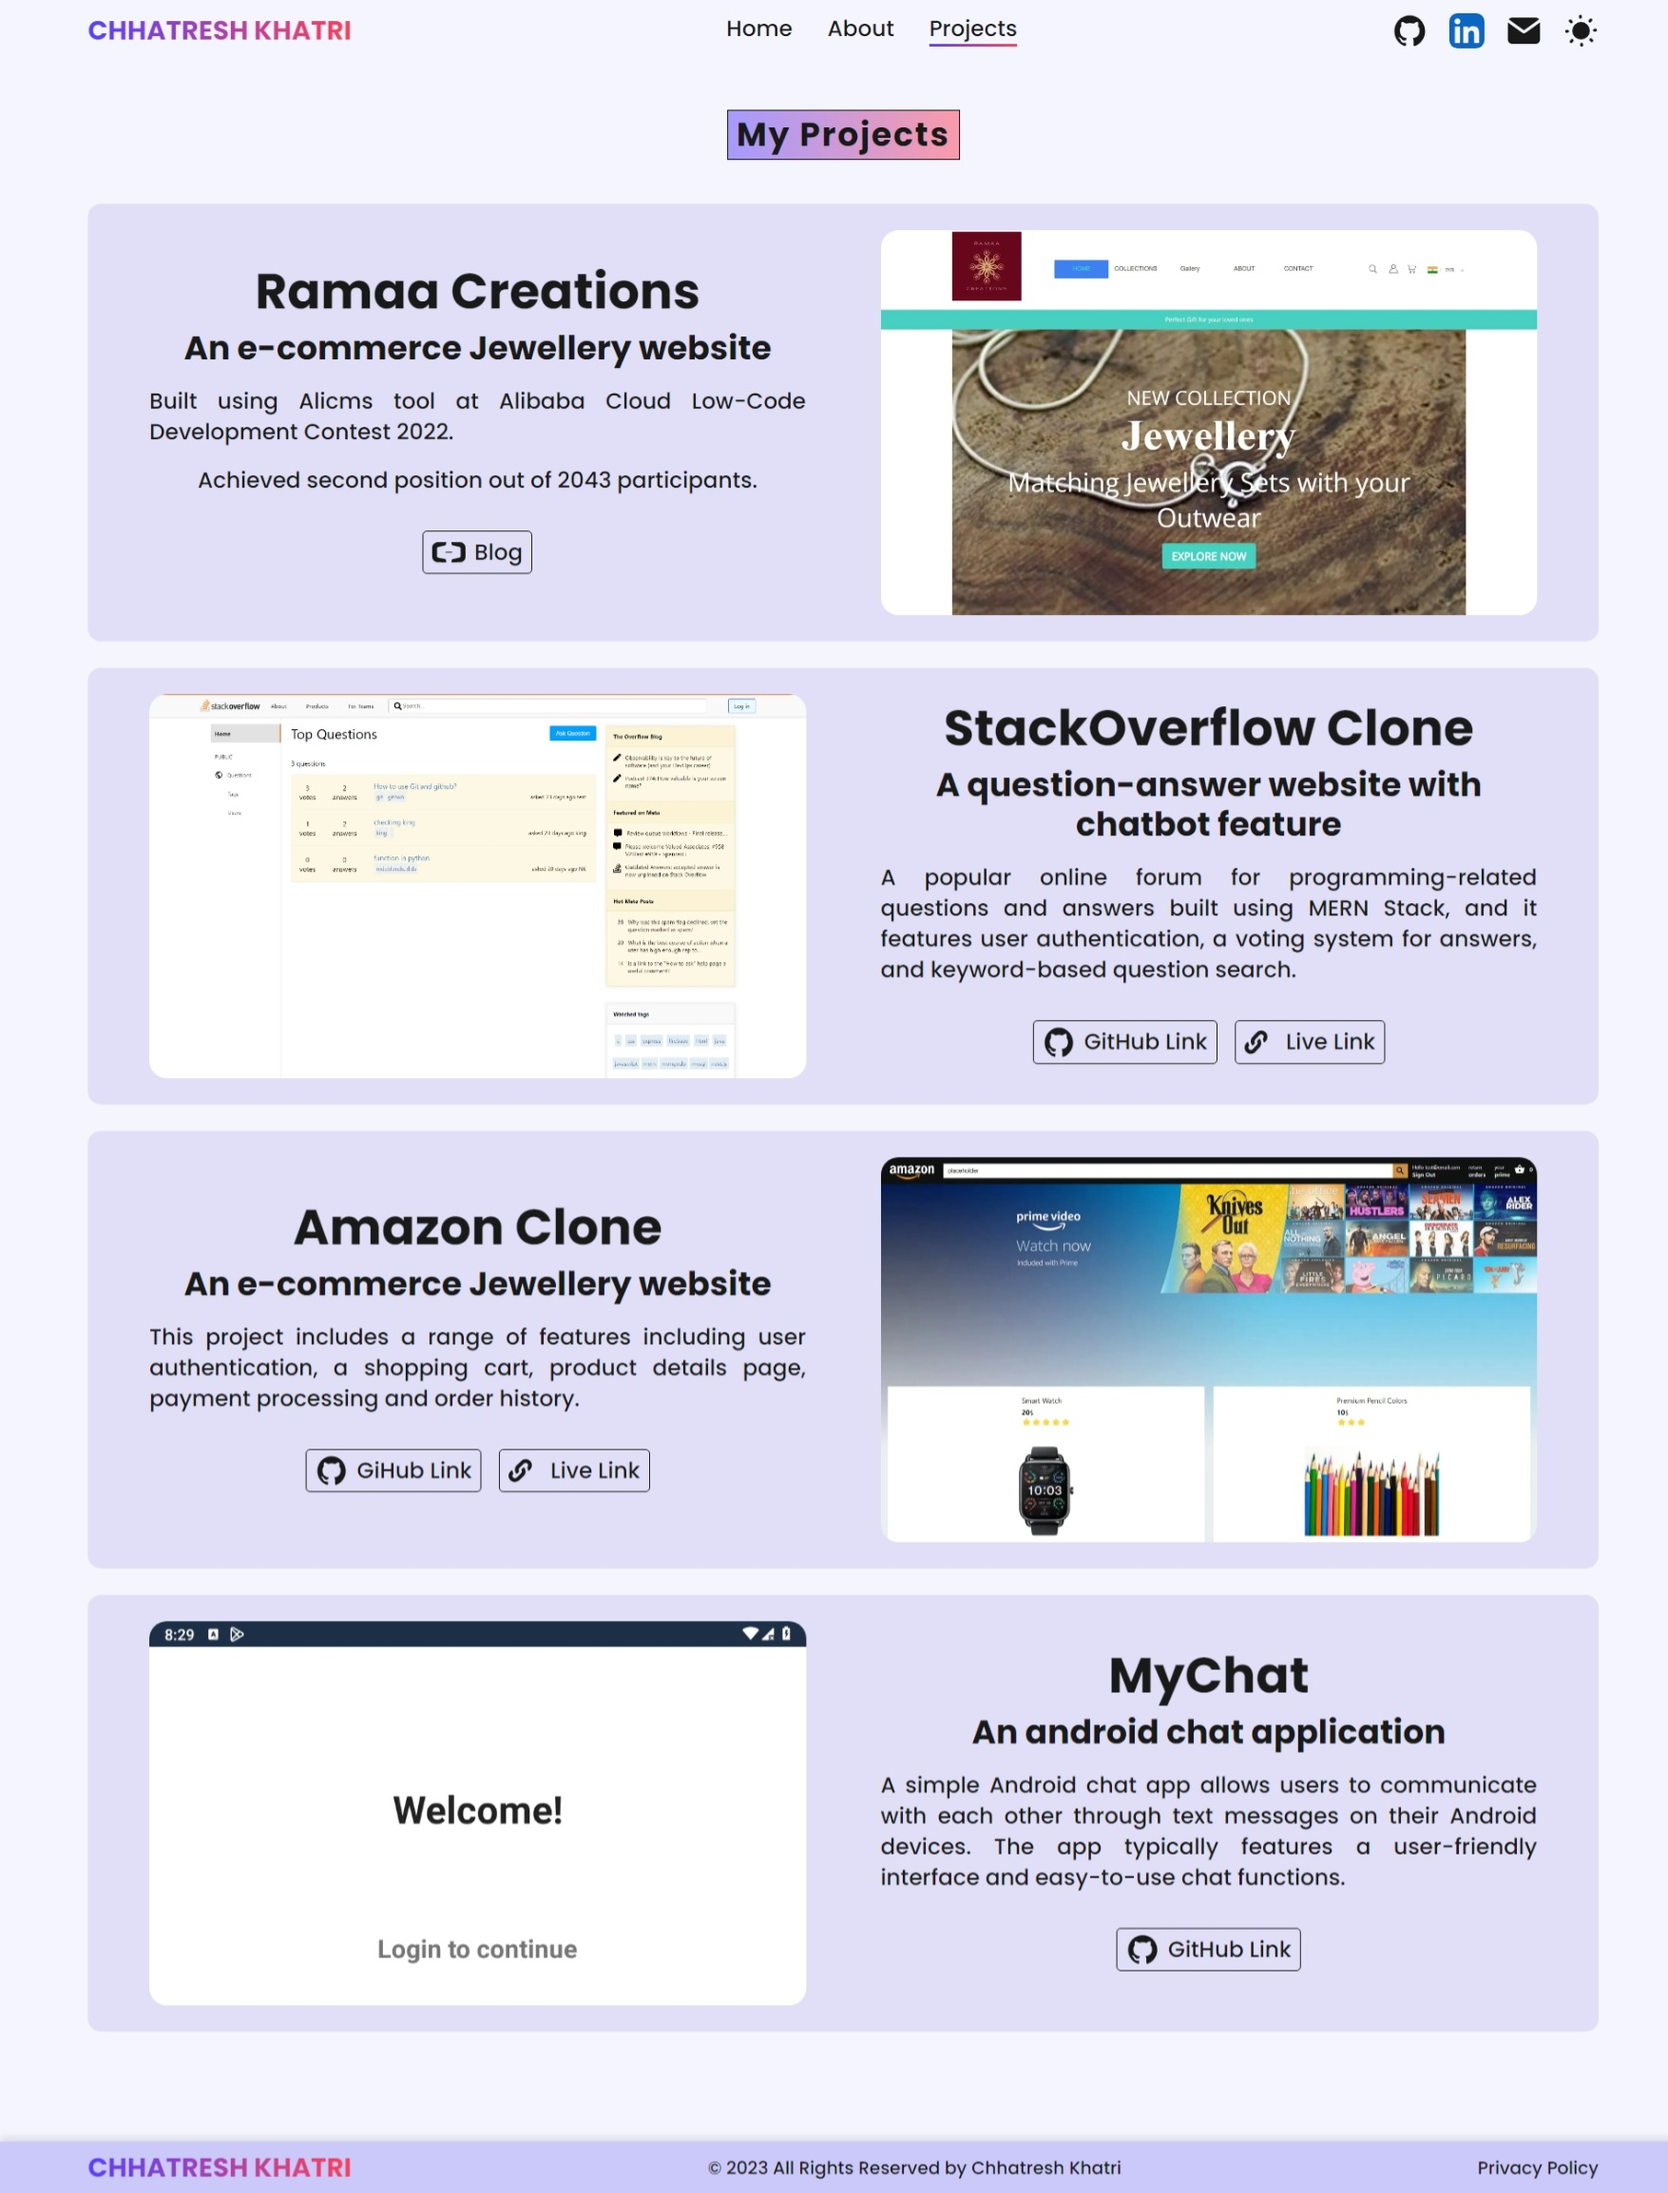
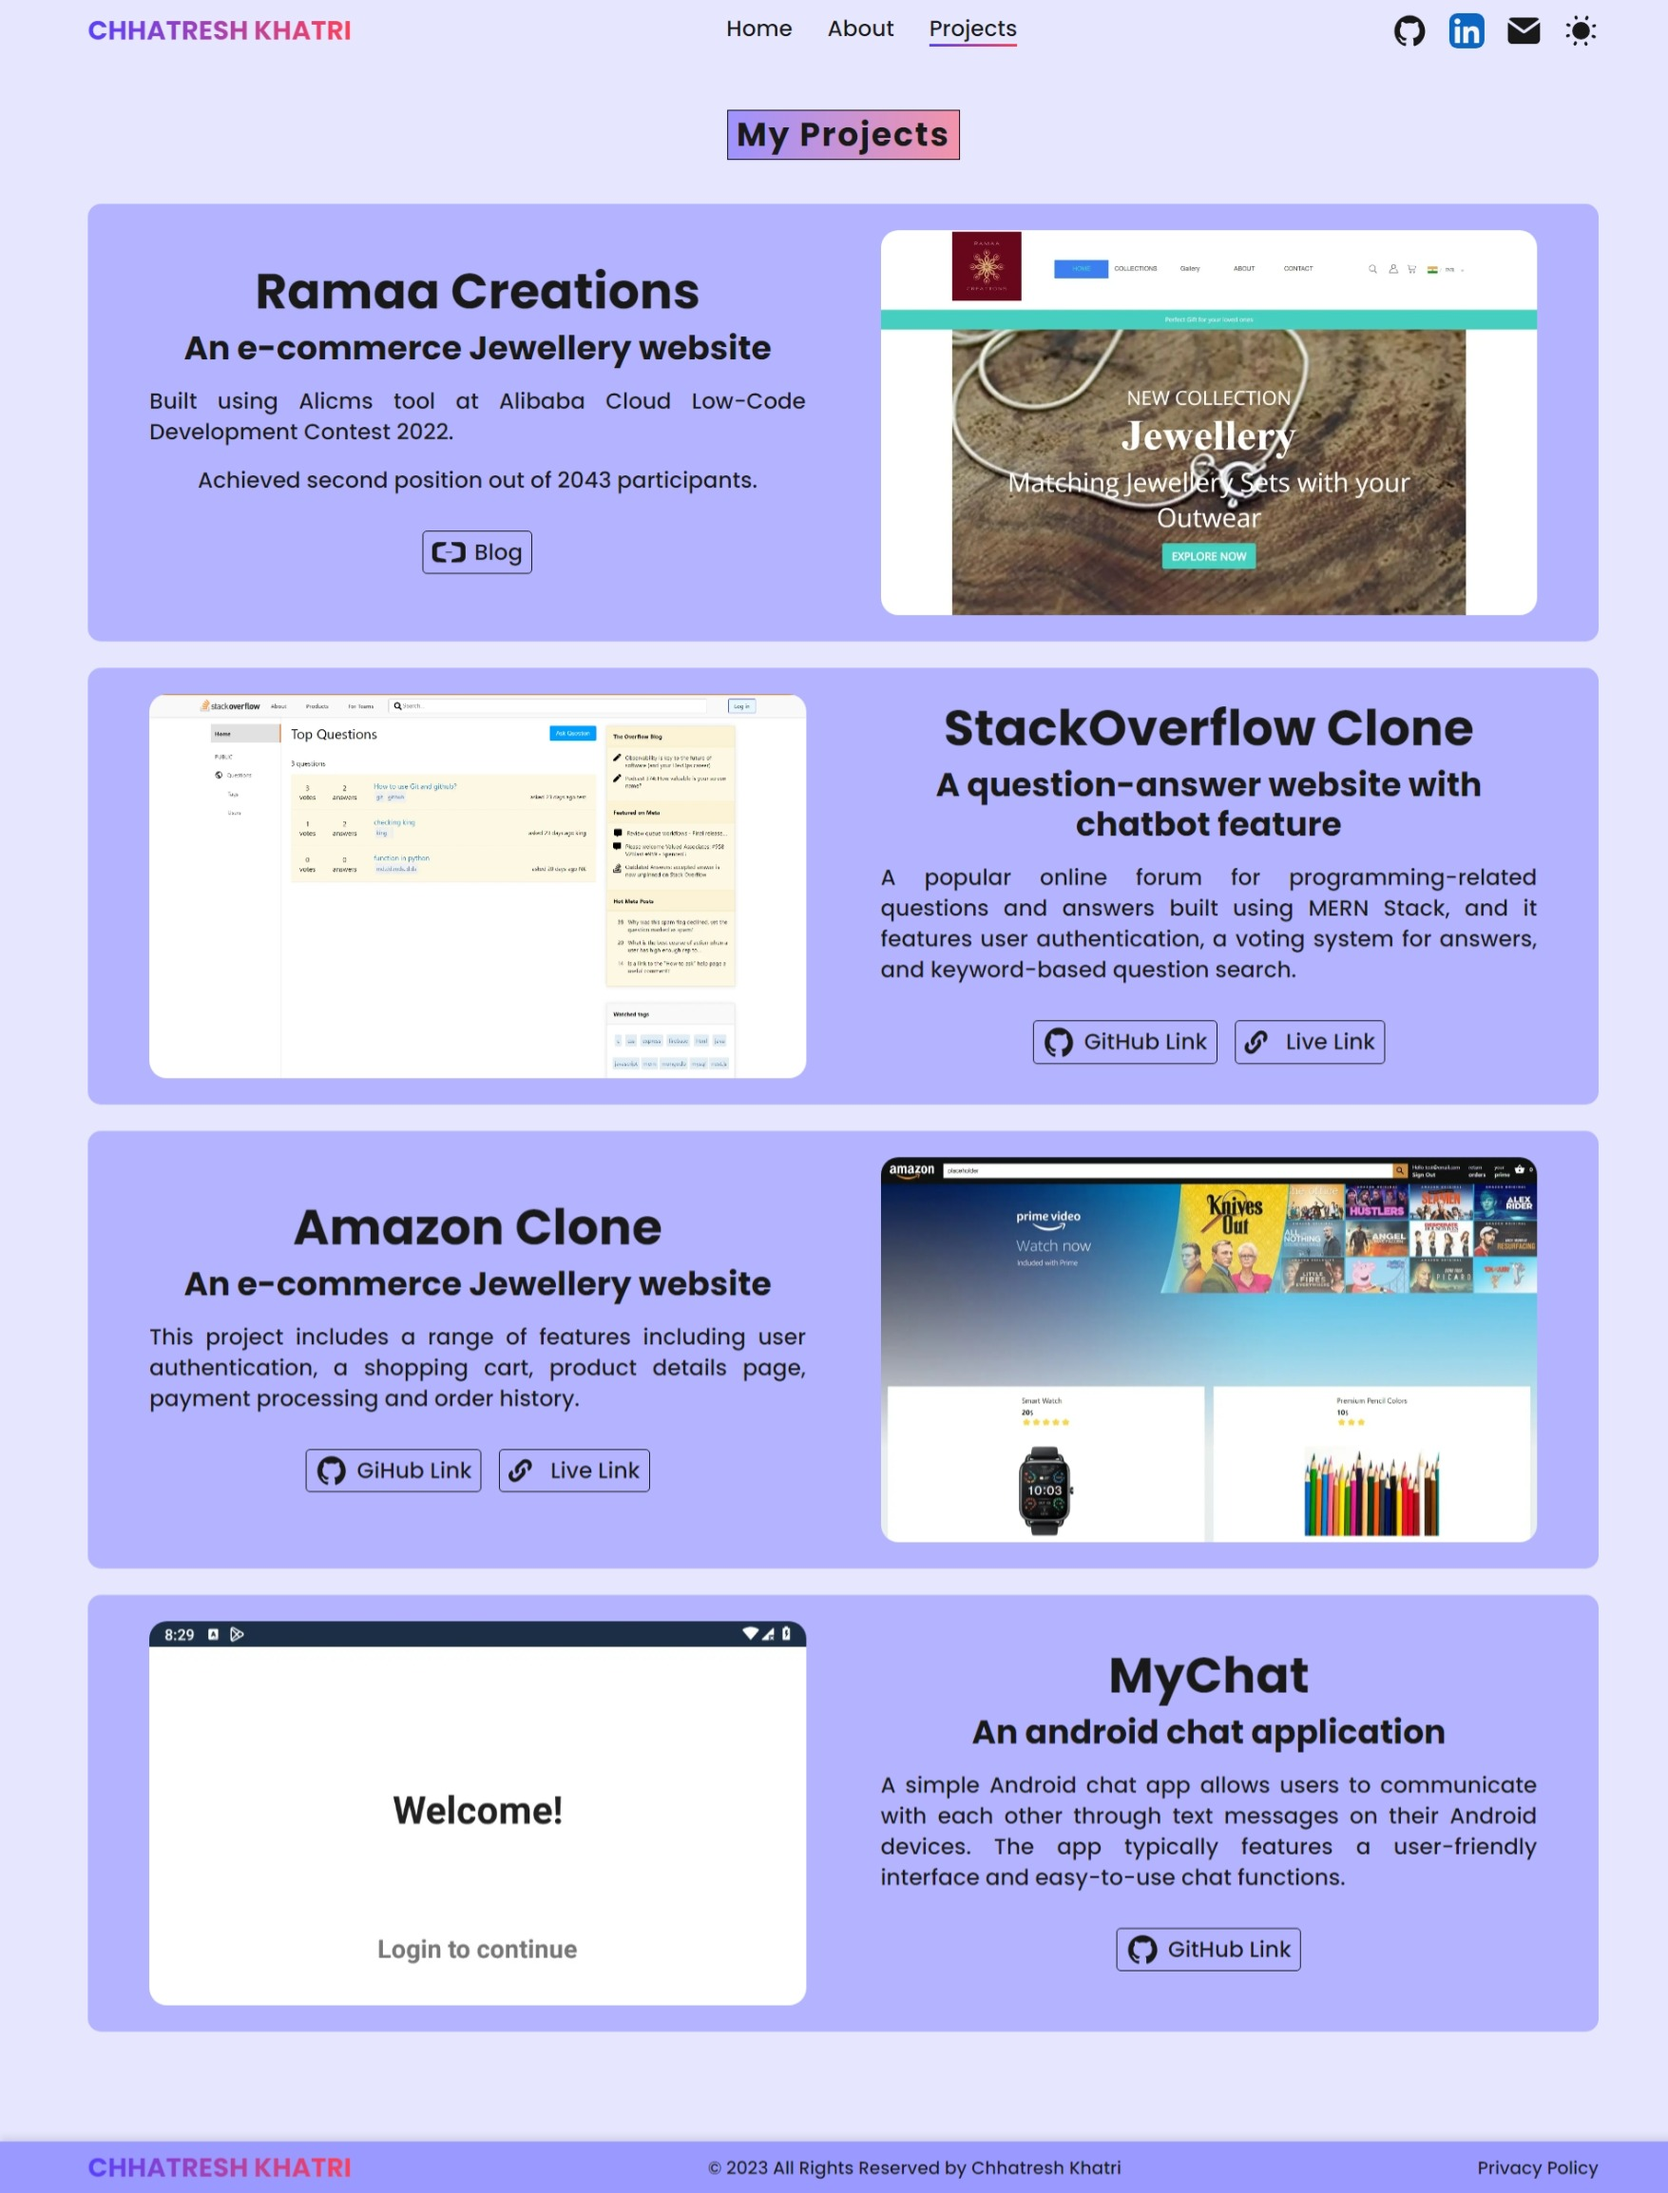
light color changes

diff --git a/tailwind.config.js b/tailwind.config.js
@@ -24,15 +24,15 @@ module.exports = {
       screens: {xxs:'425px', xs:'480px', md: "768px", lg: "1024px", xl: "1200px", xxl: "1400px" },
       colors: {
         dark: "#191919",
-        light: "#f5f5ff",
+        light: "#E6E6FF",
         primary: "#B63E96",
         primaryDark: "#58E6D9",
         darkCk: "#5740FF",
         lightCk: "#FF4057",
         darker: "#111111",
         darked: "#151515",
-        contentBg: "#e0dff7",
-        navbarBg: "#cbc9fa",
+        contentBg: "#B3B3FF",
+        navbarBg: "#9999FF",
         footerBg: "#FF6B7A",
       },
       backgroundImage: {
